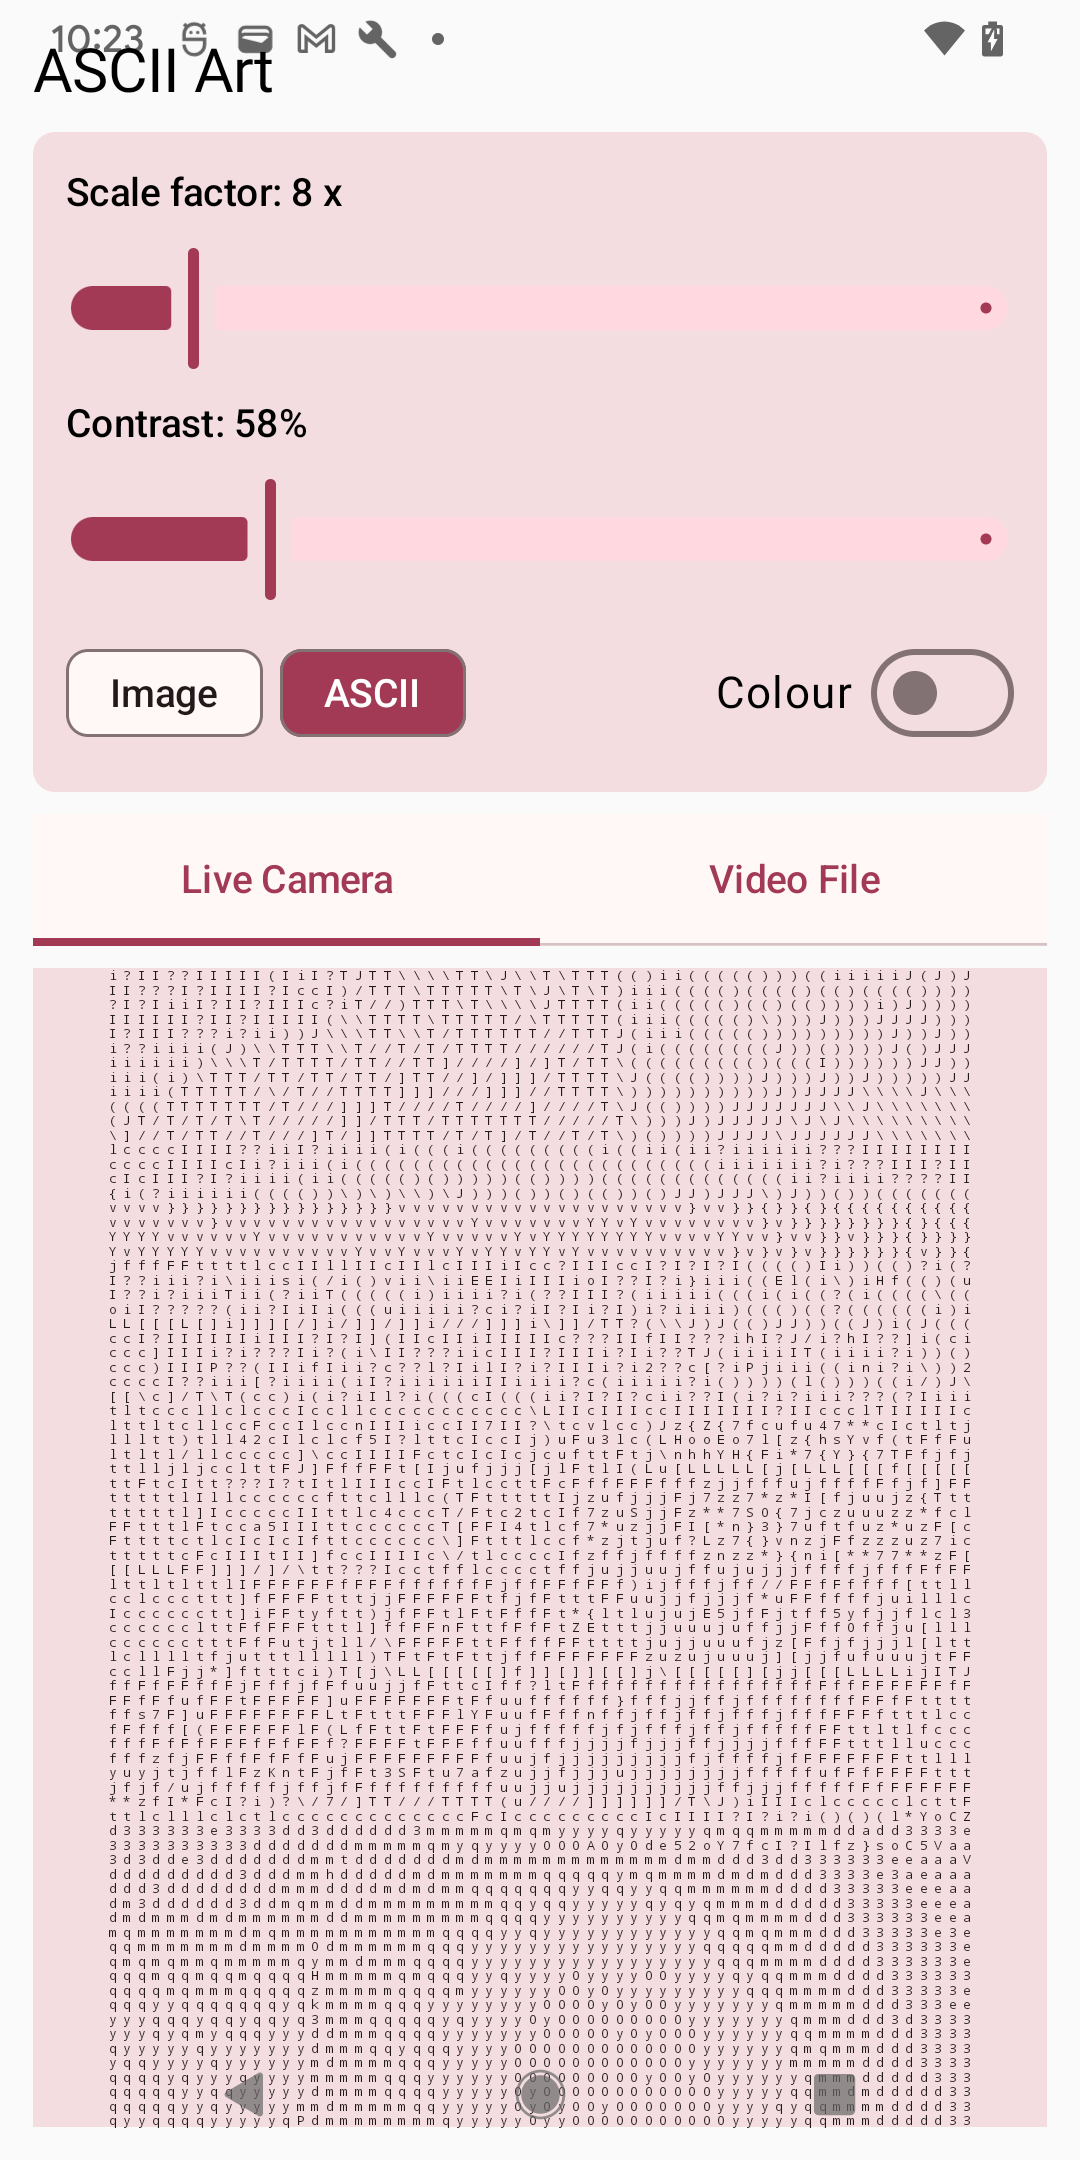
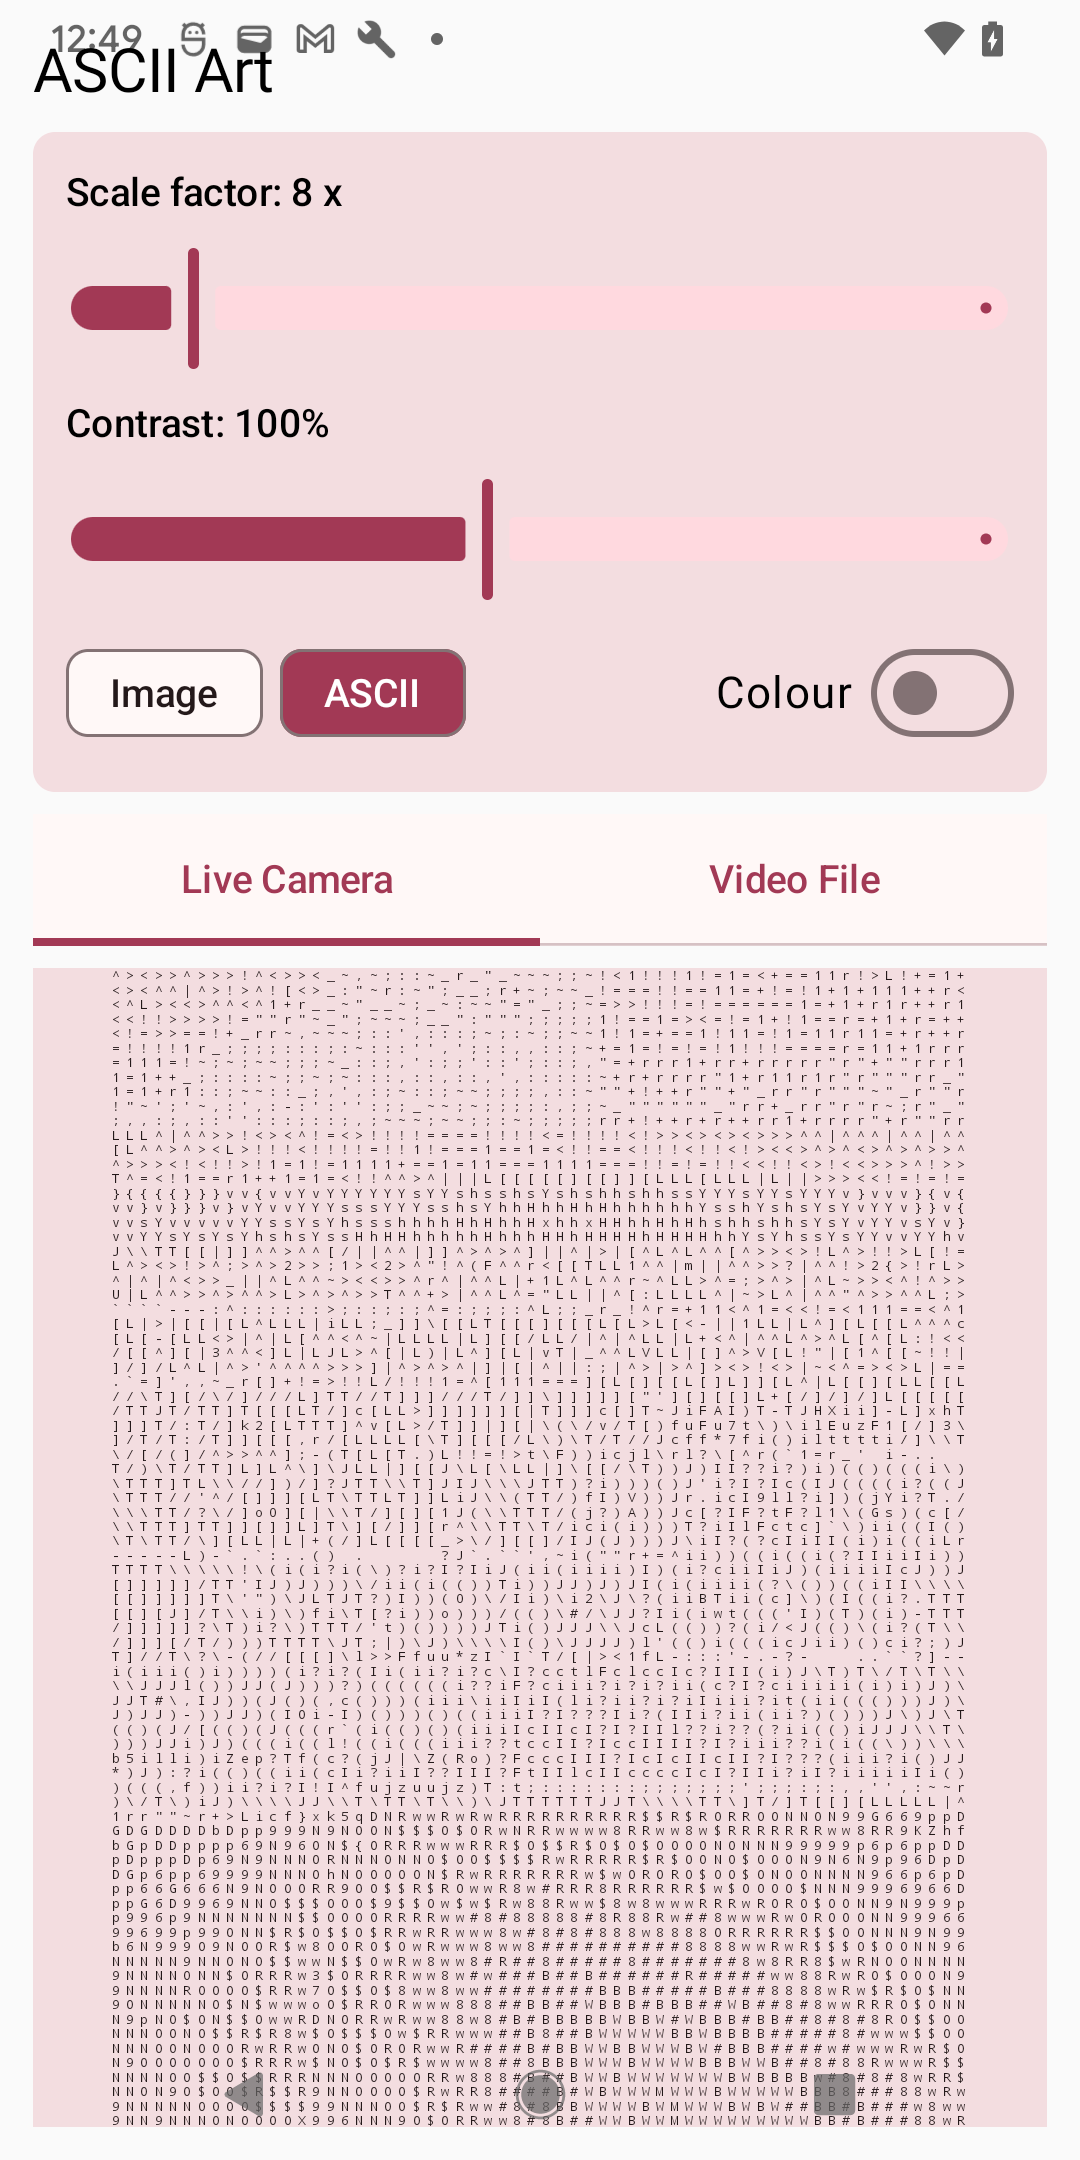
Update screenshots and README for playback control bar
- New Live Camera tab screenshot (ASCII mode)
- New Video File tab screenshot showing Load/Restart/Play/Pause control bar
- Updated screenshot alt text to describe new controls
- Updated class description table: ExoPlayerVideoFileTab, ExoPlayerFrameListener,
  ExoPlayerFrameCapture now reflect TextureView-based capture and control bar

diff --git a/README.md b/README.md
@@ -19,7 +19,7 @@ Both tabs support a **Colour** toggle:
 
 | Live Camera Tab | Video File Tab |
 |---|---|
-| ![Live Camera tab showing ASCII art output from the device camera][screenshot-live] | ![Video File tab showing ASCII art output from a video file][screenshot-video] |
+| ![Live Camera tab showing ASCII art output from the device camera][screenshot-live] | ![Video File tab showing the Load, Restart, Play and Pause control bar with ASCII art output from a video file][screenshot-video] |
 
 [screenshot-live]: docs/screenshot_live_camera.png
 [screenshot-video]: docs/screenshot_video_file.png
@@ -213,9 +213,9 @@ classDiagram
 | `FrameProcessingResult` | Immutable data class that carries the output of a single `ImageProcessor` call: a downsampled grayscale `Bitmap` and an optional `IntArray` of per-cell ARGB colours. |
 | `AsciiArt` | Stateless singleton. Converts a grayscale bitmap to a multi-line ASCII `String` by mapping each pixel's intensity to a character chosen from a density-sorted printable ASCII set. Caches the sorted character set per preset. |
 | `AsciiDisplayMode` | Enum with two values — `IMAGE` (render de-res bitmap cells) and `ASCII` (render character glyphs) — shared across both tabs. |
-| `ExoPlayerVideoFileTab` | Composable for the Video File tab. Creates and manages the `ExoPlayer` instance and its lifecycle, delegates frame extraction to `ExoPlayerFrameListener`, and renders the ASCII or image output. |
-| `ExoPlayerFrameListener` | Bridges ExoPlayer playback and ASCII processing. Polls the player position at ~60 Hz on the main thread, queues frame timestamps through a `Channel`, and processes them on an IO thread via `MediaMetadataRetriever`, `ImageProcessor`, and `AsciiArt`. |
-| `ExoPlayerFrameCapture` | Represents the frame-extraction step handled inside `ExoPlayerFrameListener`: extracts a `Bitmap` from the video at a given timestamp using `MediaMetadataRetriever`, scales it down, then routes it through `ImageProcessor` and `AsciiArt` to produce the final display output. |
+| `ExoPlayerVideoFileTab` | Composable for the Video File tab. Creates and manages the `ExoPlayer` instance and its lifecycle. Provides a persistent control bar (Load, Restart, Play, Pause) visible in both IMAGE and ASCII modes. Delegates frame extraction to `ExoPlayerFrameListener` and renders the ASCII or image output. |
+| `ExoPlayerFrameListener` | Bridges ExoPlayer playback and ASCII processing. Polls the player position at ~60 Hz on the main thread, captures rendered frames via `TextureView.getBitmap()` into a `Channel<Bitmap>`, and processes them on an IO thread via `ImageProcessor` and `AsciiArt`. |
+| `ExoPlayerFrameCapture` | Represents the frame-extraction step handled inside `ExoPlayerFrameListener`: captures a `Bitmap` from the hidden `TextureView` that ExoPlayer renders to in ASCII mode, scales it down, then routes it through `ImageProcessor` and `AsciiArt` to produce the final display output. |
 
 ### Video File Processing Sequence
 ```mermaid
